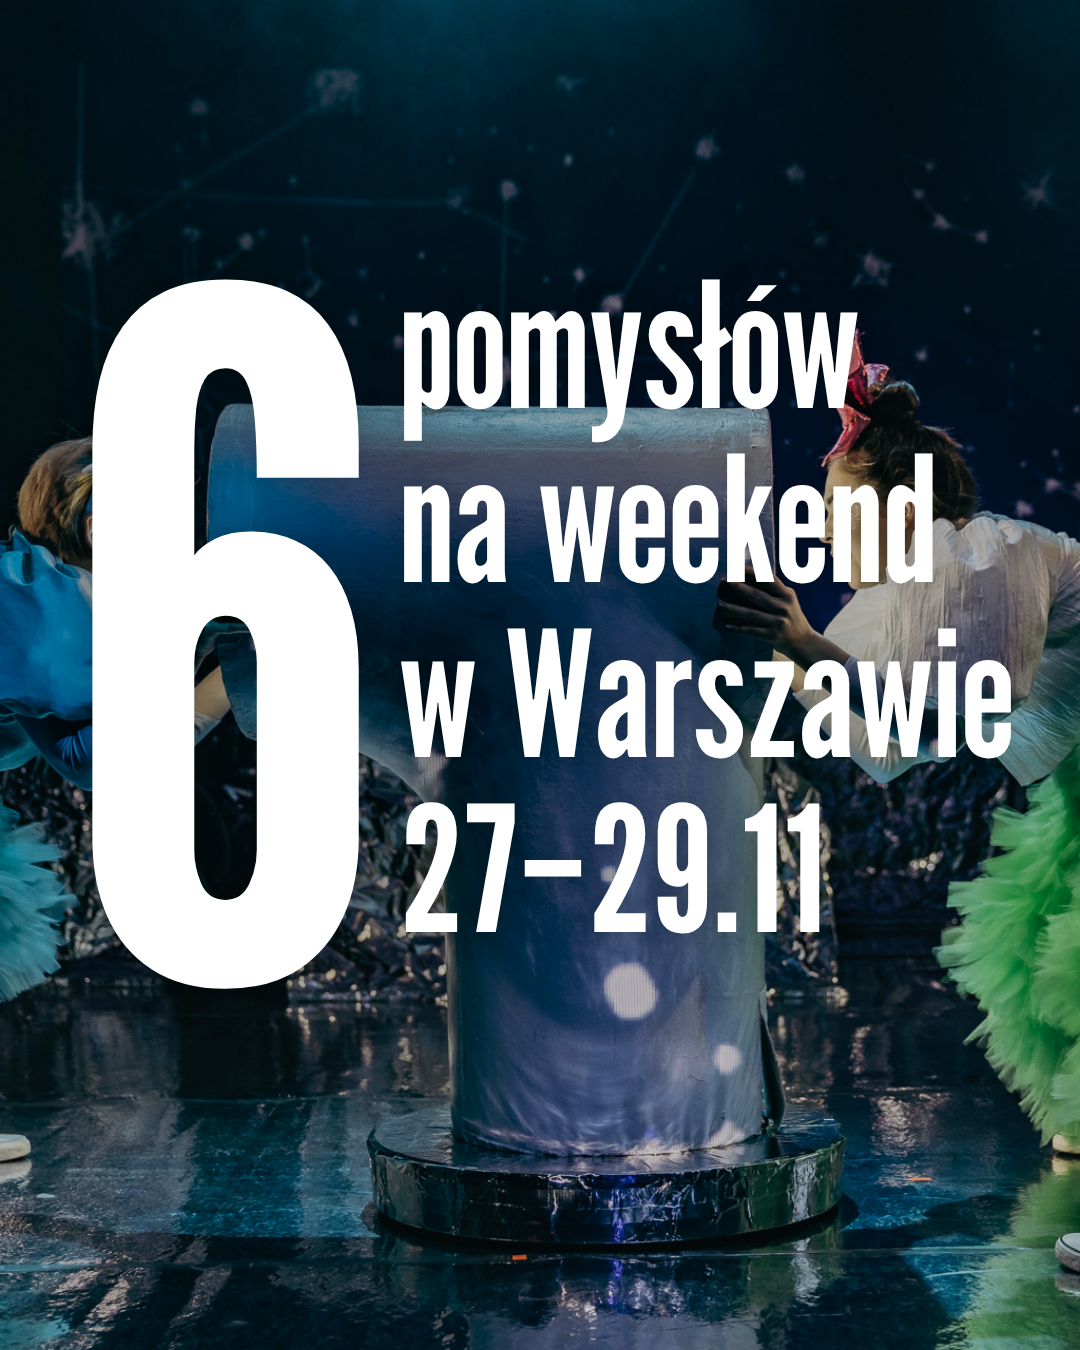
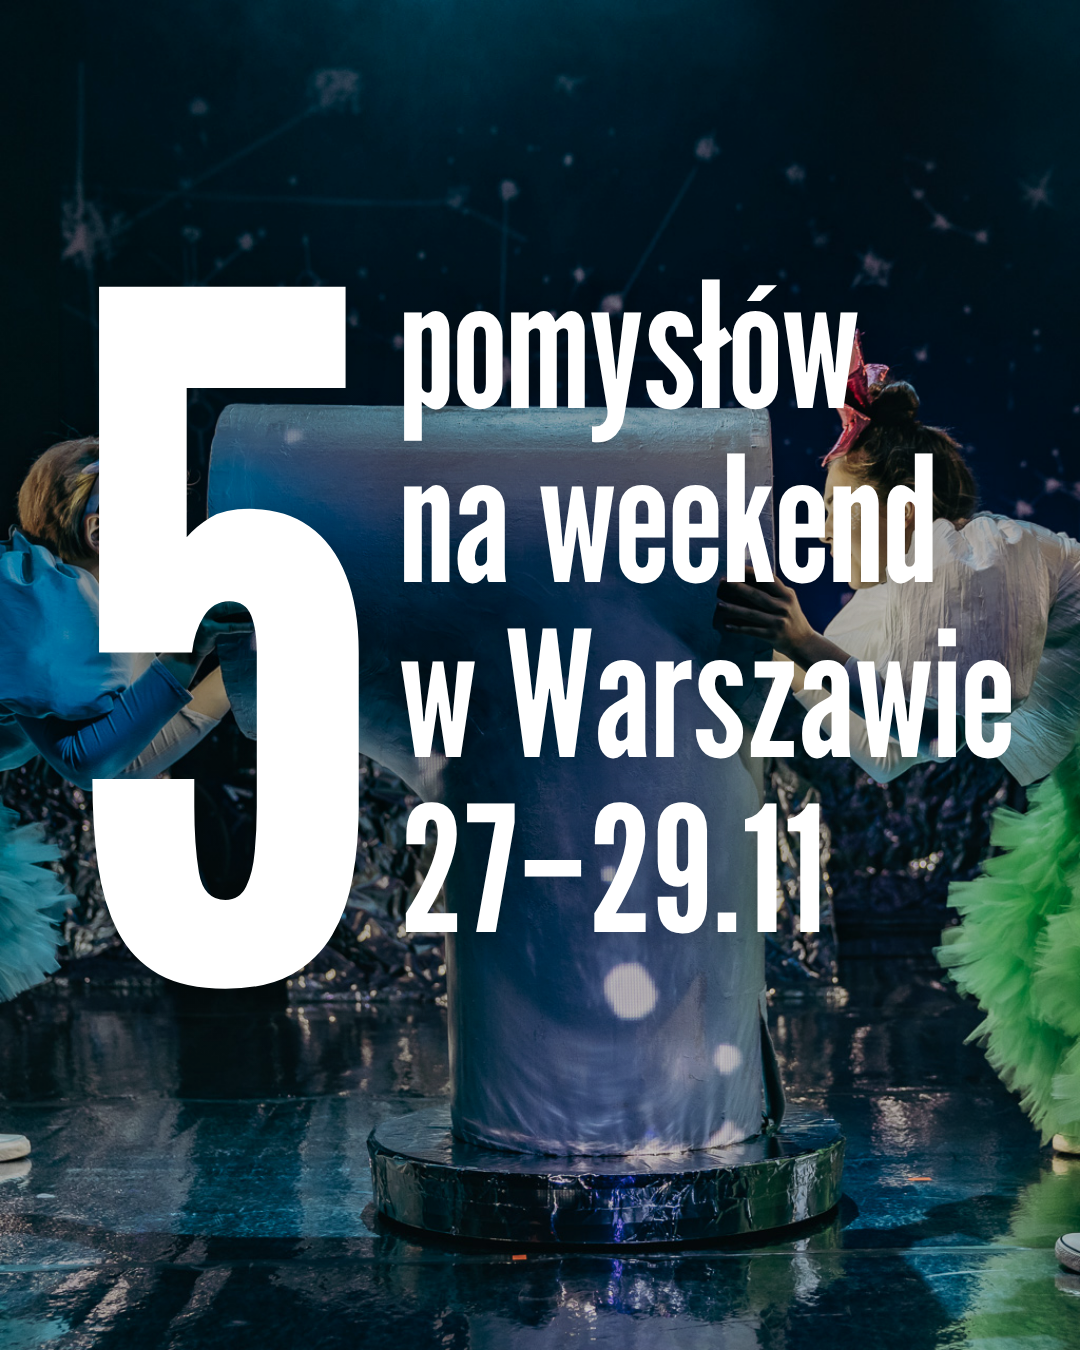
Plan kroczący 25.11: gamelan wyprzedany, zdjęty z karuzeli 26.11; w 3.12 Piernikowa Kraina i iluminacja od 4.12
Claude-Session: https://claude.ai/code/session_01XLM2maJReU7e4WTN82voGb

diff --git a/research/2026-11-25.md b/research/2026-11-25.md
@@ -1,0 +1,44 @@
+# Research dzienny: śr. 25.11.2026 (kontrola kolejki 26.11–8.12, Legia 29.11, miasto na 3.12)
+
+Sprawdzone 25.11 między 7:50 a 8:40 (`curl`, API IG: legiawarszawa, miasto_warszawa, jarmarkwarszawski, zdm_warszawa). Bez rezerwacji i bez wpisywania danych. Uzupełnia `research/2026-11-24.md`, powtarza tylko zmiany.
+
+## 1. Kontrola kolejki
+
+Wszystkie 28 adresów z `source` postów 26.11, 30.11, 1.12, 3.12 i 8.12: 200 (dkswit.com.pl za drugim razem).
+
+**Zmiana: koncert gamelanowy w Muzeum Azji i Pacyfiku (sob. 28.11, 18:00) ma na stronie wystawy dopisek „(brak miejsc)”**: bezpłatne wejściówki się skończyły. Dotyczy slajdu 4 i akapitu 🎶 posta 26.11 (wychodzi czw. 26.11 18:00, czyli za ponad 12 h, więc tryb 2 może go zmienić). Reszta soboty bez zmian i bez limitu na stronie: 12:00 oprowadzanie kuratorskie (w cenie biletu do muzeum, z PJM), 14:00 wykład o ikatach z Uzbekistanu, 16:00 spotkanie z Edytą Chrząszcz (Bali, Sumba, Jawa); na wykłady wstęp wolny. https://www.muzeumazji.pl/wystawy-czasowe/granice-koloru-tkaniny-ikatowe-azji/
+
+Post 26.11, pozostałe pozycje:
+- Zachęta, Tobias Zielony: wystawa 27.11.2026–14.02.2027, wt.–nd. 12–20, czwartki wstęp wolny; wernisaż czw. 26.11 o 19:00 (godzinę po publikacji posta). W piątek 27.11 17:00 i 18:30 wydarzenia towarzyszące (prezentacja, warsztat taneczny).
+- Guliwer „jaśniej!”: sob. 28.11 17:00 (**z audiodeskrypcją**) 37 wolnych miejsc; nd. 29.11 11:00 46, 13:00 46. Od 5 lat.
+- MAiP „Jak powstaje ikat?” nd. 29.11 11:00: sprzedaż online otwarta (20 zł opiekun, 20 zł dziecko 6–12, 1–5 biletów), bez oznaczenia wyprzedania; liczby wolnych miejsc system nie pokazuje.
+- BOK ceramika nd. 29.11 12:30–14:00, 90 zł, „Zapisz się”: bez zmian.
+- Falstaff 27.11 19:00 i 29.11 18:00: „Kup bilet” przy obu.
+
+Dalsze posty bez zmian:
+- 30.11: Dom Sztuki 1.12 i 9.12 19:00 wstęp wolny; bazar MAiP 5–6.12 10–18 wstęp wolny (wystawy w tym czasie zamknięte); Etnograficzne bezpłatne czwartki; Polifonie do 20.12.
+- 1.12: Lalka „Zupełnie inne Święta” 12.12 17:00 **102** wolne, 13.12 12:00 **61** (bez zmian od wczoraj); Maskarada 5.12 12:30 i 19.12 12:00 w repertuarze; Murowanka 12.12 12:00 wstęp wolny; DK Świt 13.12 13:00.
+- 3.12: BOK 4.12 18:00 20 zł; Muzeum Pragi 5.12; DK Świt 6.12 9:30; Kiljański 5.12 19:00 70/40 zł.
+- 8.12: CPK 13.12 10:00 i 12:00, wejściówki od 8.12 16:00; Alternatywy 13.12 11:00 30 zł; „Wełna” 20.12 10:00 **48** dostępnych; BCK „O, choinka!” 20.12 11:30 i 13:00.
+
+## 2. Legia–Wieczysta, nd. 29.11, 17:30
+
+- **Grafiki meczowej nadal brak** na @legiawarszawa (12 ostatnich postów: wideo z treningów, zdjęcia z meczu 22.11). Jedyna zapowiedź to rolka `@legiawarszawa/DgF_x2NxqOc` (23.11).
+- **Cennik z bilety.legia.com (wydarzenie 8015, „29.11 | Niedziela, 17:30”)**: Żyleta 90 / ulgowy 80 zł; Strefa 2 (wsch., zach.) 125 / 110 zł; Strefa 1 145 / 125 zł; **Strefa rodzinna 105 zł normalny, 90 ulgowy, dziecko do 13 lat 40 zł**; Premium Club 750 zł, The Box 349 zł. https://bilety.legia.com/Stadium?eventId=8015
+- Uwaga: ogólna strona legia.com/bilety nadal podaje „bilet dla dziecka w Sektorze Rodzinnym od 5 do 10 zł” i że dzieci do 7 lat wchodzą za darmo pod opieką dorosłego. Cennik meczu mówi 40 zł za dziecko: w poście podawać cenę z cennika meczu, a zasadę „do 7 lat za darmo” tylko z odnośnikiem do legia.com/bilety. Liczby wolnych miejsc system nie pokazuje bez JS.
+
+## 3. Miasto na post 3.12 (weekend 4–6.12)
+
+Źródło: warszawa19115.pl „Święta w Warszawie 2026” (zaktualizowano 23.11 14:30) i „Iluminacja w Warszawie” (23.11 12:44). um.warszawa.pl i kultura.um.warszawa.pl zwracają 403/202 (ochrona przed botami), nie do odczytu.
+
+**Warszawska Piernikowa Kraina:** bezpłatne dekorowanie pierników z animatorami, pt.–nd. 4–6, 11–13, 18–20.12, 17:00–20:00, w czasie Jarmarku Warszawskiego na Placu Centralnym; ozdobione pierniki do zabrania. Uwaga: tekst miejski jest częściowo przepisany z 2025 („odbywały się”), ale daty to piątki–niedziele 2026. Grafiki samych warsztatów brak (19115 bez zdjęć, @jarmarkwarszawski i @miasto_warszawa bez posta o piernikach). Najlepszy obraz: `@miasto_warszawa/DgBKlvcjLQf#1` (1498×1872, fot. Cezary Warś: jarmark nocą z drona, choinka ze światełek, PKiN w tle; drobny napis Grzaniec Galicyjski na jednym straganie).
+
+**Iluminacja:** działa od pt. 4.12.2026 do 14.02.2027, motyw warszawskich legend i postaci (Bazyliszek, Kamienny Niedźwiedź przy 21-metrowej choince na pl. Zamkowym; karuzela ze Złotą Kaczką oraz Warsem i Sawą na Rynku Nowego Miasta; Skłodowska, Chopin, Moniuszko, Prus na Rynku Starego Miasta; nowy mapping Pałacu Staszica; po raz pierwszy pl. Centralny i Park Świętokrzyski). **Godziny zapalenia nie ogłoszono** (@miasto_warszawa 16.11: „A kiedy rozświetlamy iluminację? Damy znać.”; w 2025 było o 18:00, to nie potwierdzenie). Obraz: `@miasto_warszawa/DfzeJ_wKiCZ` (1092×1365, fot. Rafał Motyl: choinka na pl. Zamkowym za dnia, jeszcze nieoświetlona, obok wieża Zamku Królewskiego; na szczycie gwiazda z Syrenką).
+
+Pokazy zimowe w Multimedialnym Parku Fontann od 4.12, pt.–nd. 16–20 co godzinę (z wczoraj, bez zmian).
+
+## Wnioski
+
+- Do trybu 2: w poście 26.11 zdjąć albo przepisać pozycję z gamelanem (brak wejściówek); zamiennik z tego samego weekendu otwarcia to bezpłatne wykłady w sobotę 14:00 i 16:00 albo Kino Tęcza z wczorajszej notatki.
+- Legia: bez statycznej grafiki klubu; jeśli mecz ma wejść do posta, cena dla rodzin z cennika meczu (105/40 zł).
+- Iluminacja: pewna data, godzina jeszcze nie; sprawdzić @miasto_warszawa i 19115 w trybie 2 przed 3.12.
